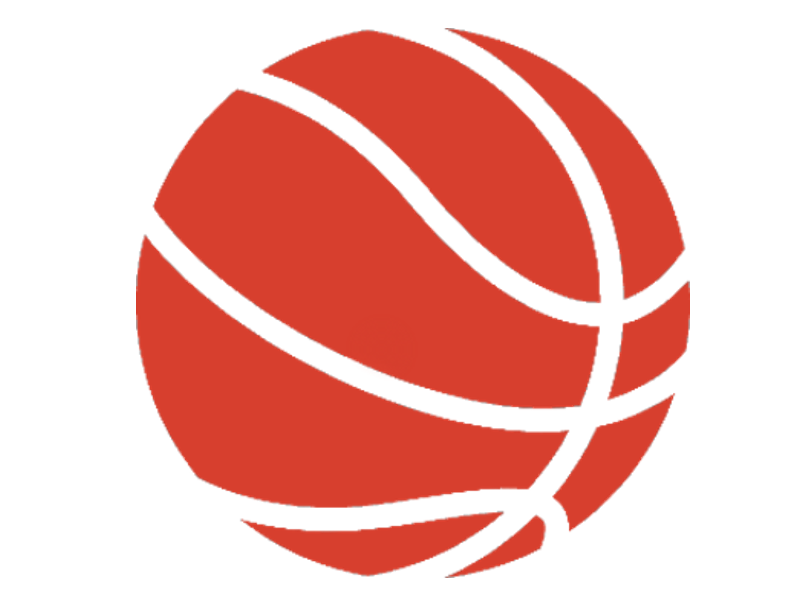
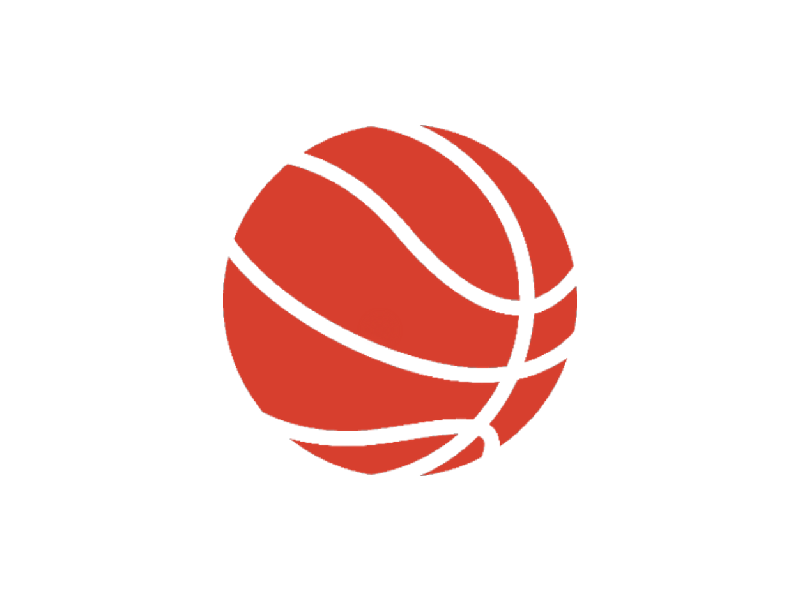
Ball in start app

diff --git a/src/ui/BasketballDataGUI.java b/src/ui/BasketballDataGUI.java
@@ -67,6 +67,13 @@ public class BasketballDataGUI {
 
     @FXML
     private ImageView imgExit;
+    
+    @FXML
+    private AnchorPane anchorBack;
+
+    @FXML
+    private ImageView imgBack;
+
 	
 	@FXML
 	public void loadApp() throws IOException, InterruptedException{
@@ -89,6 +96,9 @@ public class BasketballDataGUI {
 		imgImp.setImage(importP);
 		Image end = new Image("/images/end.png");
 		imgExit.setImage(end);
+		
+		Image ball = new Image("/images/back.png");
+		imgBack.setImage(ball);
 
 		mainPane.setTop(load);
 	}
